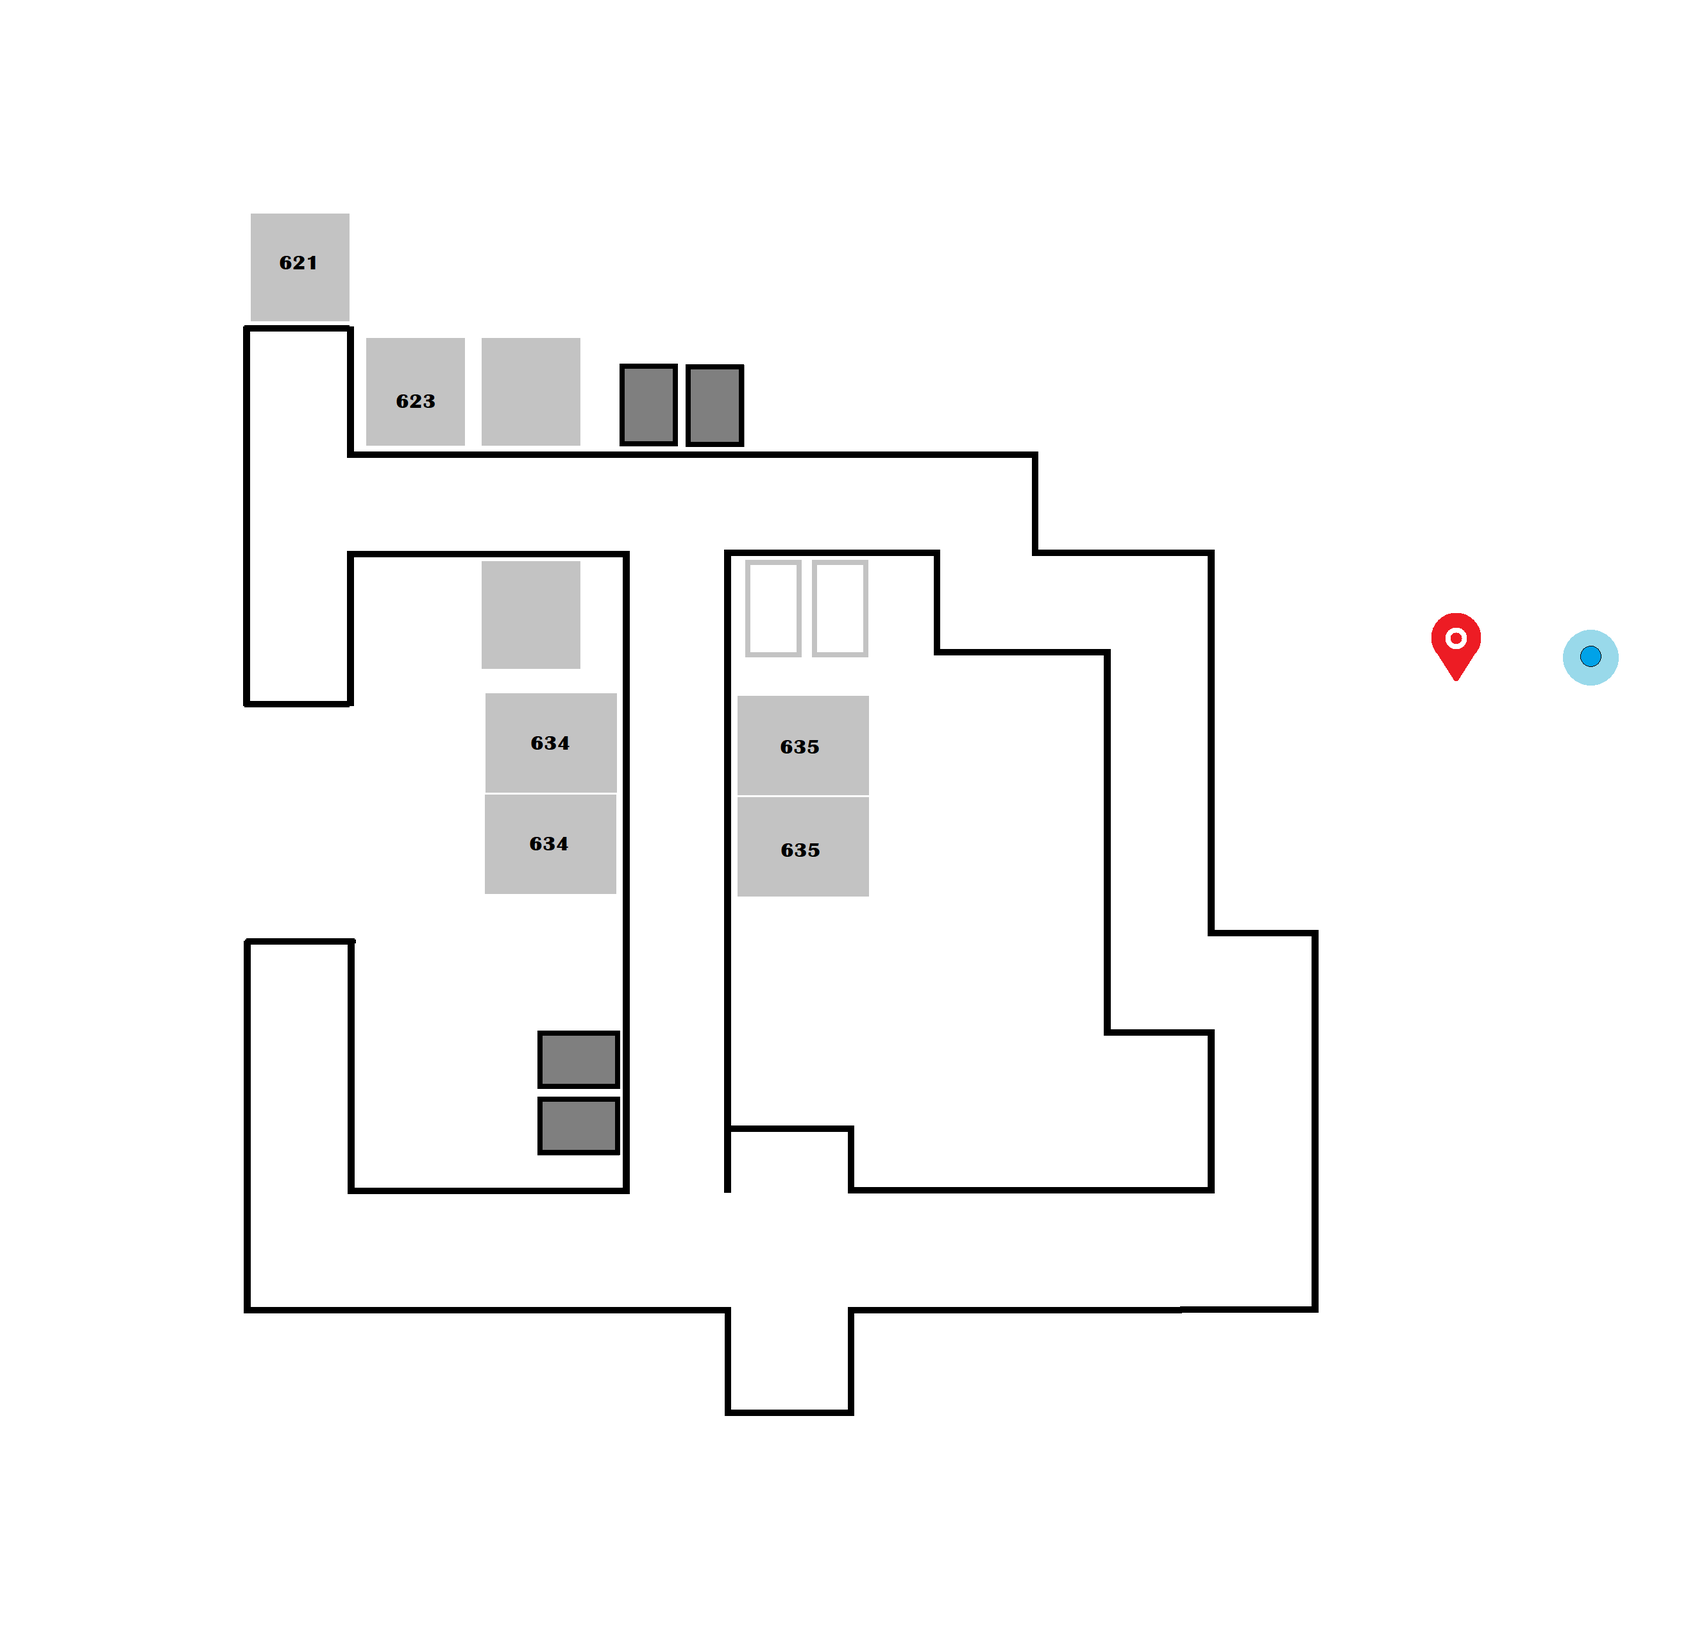
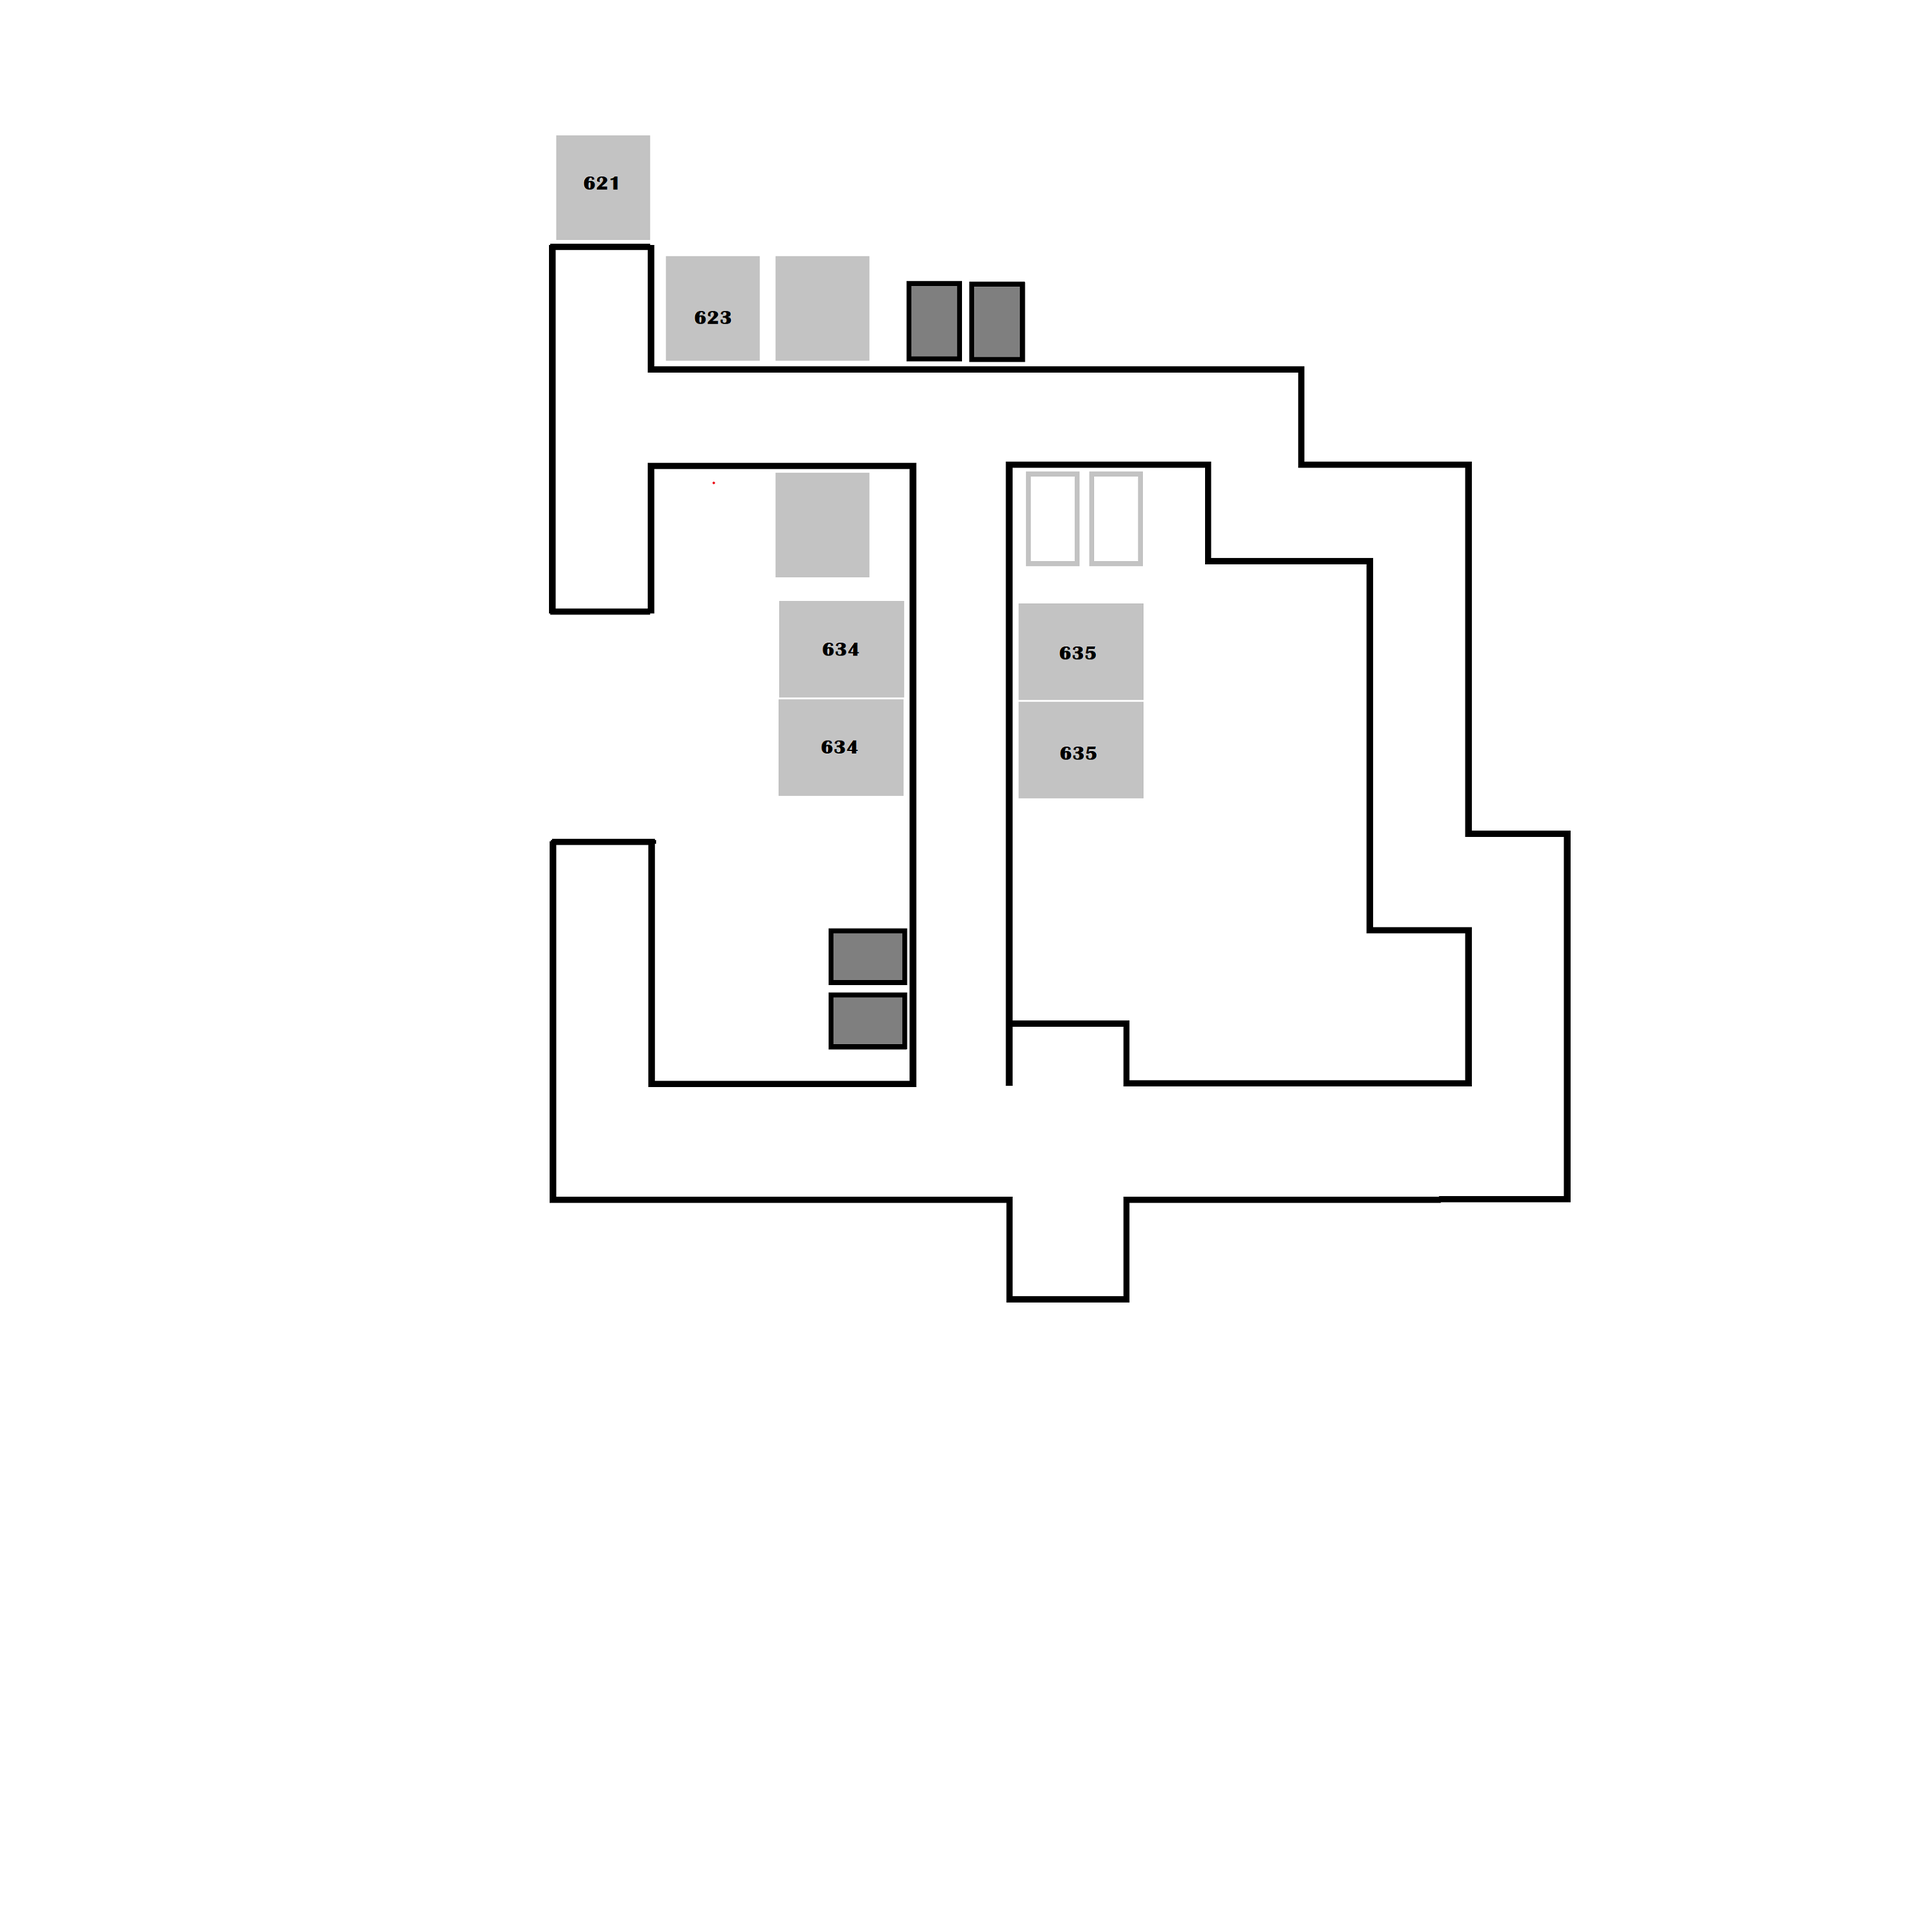
map image changed

diff --git a/lib/location_page.dart b/lib/location_page.dart
@@ -1,6 +1,7 @@
 import 'dart:async';
 
 import 'package:flutter/material.dart';
+import 'package:flutter_application_1/map_page.dart';
 import 'package:geolocator/geolocator.dart';
 
 
@@ -32,7 +33,10 @@ class _LocationAppState extends State<LocationApp> {
       setState(() {
         _currentPosition = position;
         if (_currentPosition!.latitude <= lat + 0.0000100 &&
-            _currentPosition!.latitude >= lat - 0.0000100) {
+            _currentPosition!.latitude >= lat - 0.0000100
+            /*&& _currentPosition!.longitude <= long + 0.0000100 &&
+            _currentPosition!.longitude >= long - 0.0000100*/
+        ) {
           hasArrived = true;
         }
       });
@@ -132,6 +136,8 @@ class _LocationAppState extends State<LocationApp> {
               key: Key('getCurrent'),
                 onPressed: () {
                   _determinePosition();
+                  Navigator.push(context,
+                      MaterialPageRoute(builder: (_) => CampusMap()));
                 },
                 child: const Text("Get Current Location")),
             const SizedBox(height: 20,),

diff --git a/lib/map_page.dart b/lib/map_page.dart
@@ -2,15 +2,18 @@ import 'package:flutter/material.dart';
 import 'MapClasses/MapObject.dart';
 import 'MapClasses/ZoomContainer.dart';
 
-void main() {
-  runApp(const CampusMap());
-}
 
 //This class initializes the map that we provide as a .png image
 //it as well, sets a MapObject of color red, at a preset offset and of our desired
 //size to be placed on the image
 class CampusMap extends StatelessWidget {
-  const CampusMap({Key? key}) : super(key: key);
+  double lat;
+  double long;
+  CampusMap({
+    super.key,
+    this.lat=51.3410250,
+    this.long=12.3784733,
+  });
 
   @override
   Widget build(BuildContext context) {
@@ -28,7 +31,8 @@ class CampusMap extends StatelessWidget {
               child: Container(
                 color: Colors.red,
               ),
-              offset: const Offset(-0.21, 0.31),
+              //offset: const Offset(-0.21, 0.31),
+              offset: const Offset(0, 0),
               size: const Size(15, 15),
             ),
           ],

diff --git a/test/widget_test.dart b/test/widget_test.dart
@@ -32,7 +32,7 @@ void main() {
   testWidgets('Map page widget test', (WidgetTester tester) async {
     // setup
     Widget zoomContainer = ZoomContainer(imageProvider:Image.asset("assets/map.png").image );
-    await tester.pumpWidget(const MaterialApp(
+    await tester.pumpWidget( MaterialApp(
         home:CampusMap()
     ) );
     await tester.pumpAndSettle(const Duration(seconds: 3));
@@ -53,7 +53,7 @@ void main() {
     expect(zoomOutIcon, findsOneWidget);
     expect(zoomLevelFinder, 1);
     expect(imageFinder, Image.asset("assets/map.png").image);
-    expect(mapObjectFinder.offset,const Offset(-0.21, 0.31) );
+    expect(mapObjectFinder.offset,const Offset(0, 0) );
     expect(mapObjectFinder.size,const Size(15, 15) );
   });
 }

diff --git a/lib/first_page.dart b/lib/first_page.dart
@@ -23,7 +23,7 @@ class HomePage extends StatelessWidget {
                   key: navigateToMapButtonKey,
                   onPressed: () {
                     Navigator.push(context,
-                        MaterialPageRoute(builder: (_) => const CampusMap()));
+                        MaterialPageRoute(builder: (_) =>  CampusMap()));
                   },
                   child: const Text(
                     "Map",
